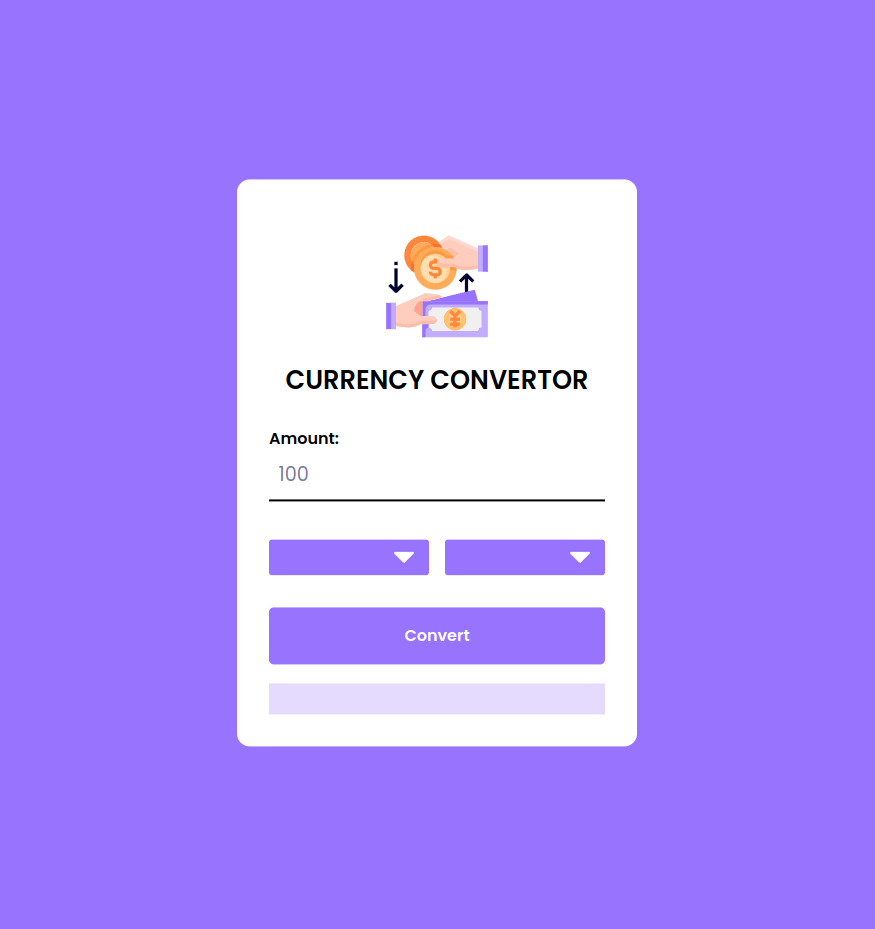
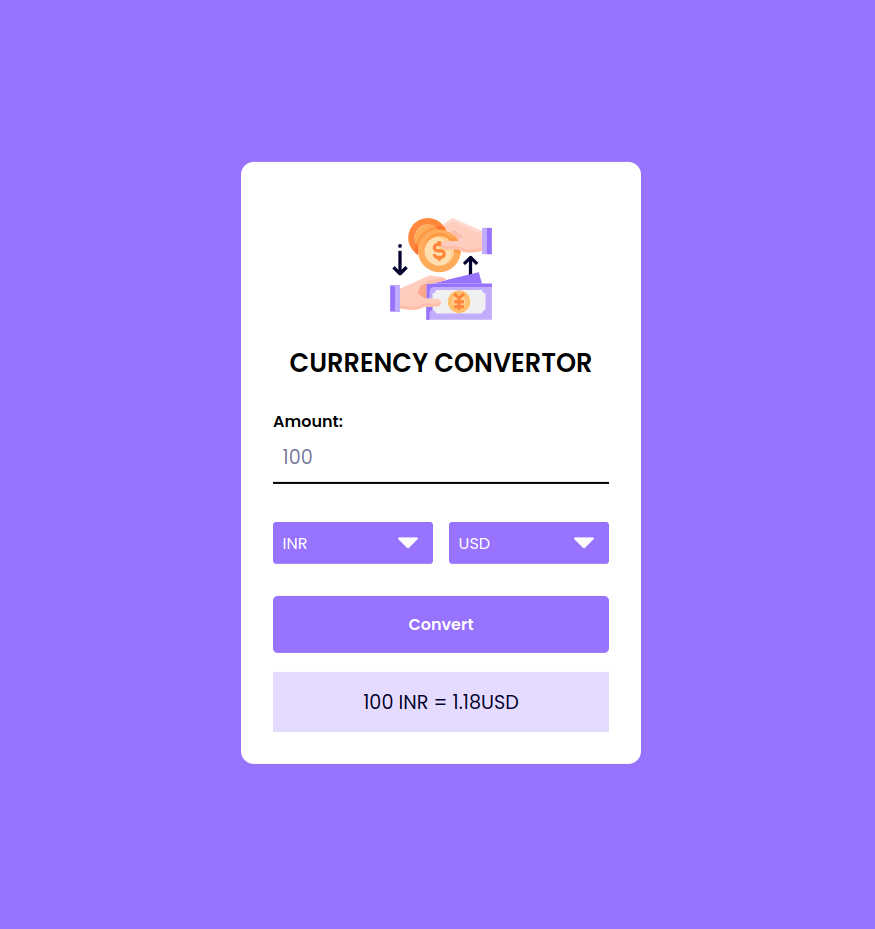
made backend part

Changed region(s): [[0.2469, 0.1561, 0.7406, 0.8428]]

diff --git a/currency-codes.js b/currency-codes.js
@@ -1,0 +1,173 @@
+currencies = [
+    "AED",
+    "AFN",
+    "ALL",
+    "AMD",
+    "ANG",
+    "AOA",
+    "ARS",
+    "AUD",
+    "AWG",
+    "AZN",
+    "BAM",
+    "BBD",
+    "BDT",
+    "BGN",
+    "BHD",
+    "BIF",
+    "BMD",
+    "BND",
+    "BOB",
+    "BRL",
+    "BSD",
+    "BTC",
+    "BTN",
+    "BWP",
+    "BYN",
+    "BZD",
+    "CAD",
+    "CDF",
+    "CHF",
+    "CLF",
+    "CLP",
+    "CNY",
+    "COP",
+    "CRC",
+    "CUC",
+    "CUP",
+    "CVE",
+    "CZK",
+    "DJF",
+    "DKK",
+    "DOP",
+    "DZD",
+    "EGP",
+    "ERN",
+    "ETB",
+    "EUR",
+    "FJD",
+    "FKP",
+    "GBP",
+    "GEL",
+    "GGP",
+    "GHS",
+    "GIP",
+    "GMD",
+    "GNF",
+    "GTQ",
+    "GYD",
+    "HKD",
+    "HNL",
+    "HRK",
+    "HTG",
+    "HUF",
+    "IDR",
+    "ILS",
+    "IMP",
+    "INR",
+    "IQD",
+    "IRR",
+    "ISK",
+    "JEP",
+    "JMD",
+    "JOD",
+    "JPY",
+    "KES",
+    "KGS",
+    "KHR",
+    "KMF",
+    "KPW",
+    "KRW",
+    "KWD",
+    "KYD",
+    "KZT",
+    "LAK",
+    "LBP",
+    "LKR",
+    "LRD",
+    "LSL",
+    "LYD",
+    "MAD",
+    "MDL",
+    "MGA",
+    "MKD",
+    "MMK",
+    "MNT",
+    "MOP",
+    "MRO",
+    "MRU",
+    "MUR",
+    "MVR",
+    "MWK",
+    "MXN",
+    "MYR",
+    "MZN",
+    "NAD",
+    "NGN",
+    "NIO",
+    "NOK",
+    "NPR",
+    "NZD",
+    "OMR",
+    "PAB",
+    "PEN",
+    "PGK",
+    "PHP",
+    "PKR",
+    "PLN",
+    "PYG",
+    "QAR",
+    "RON",
+    "RSD",
+    "RUB",
+    "RWF",
+    "SAR",
+    "SBD",
+    "SCR",
+    "SDG",
+    "SEK",
+    "SGD",
+    "SHP",
+    "SLL",
+    "SOS",
+    "SRD",
+    "SSP",
+    "STD",
+    "STN",
+    "SVC",
+    "SYP",
+    "SZL",
+    "THB",
+    "TJS",
+    "TMT",
+    "TND",
+    "TOP",
+    "TRY",
+    "TTD",
+    "TWD",
+    "TZS",
+    "UAH",
+    "UGX",
+    "USD",
+    "UYU",
+    "UZS",
+    "VEF",
+    "VES",
+    "VND",
+    "VUV",
+    "WST",
+    "XAF",
+    "XAG",
+    "XAU",
+    "XCD",
+    "XDR",
+    "XOF",
+    "XPD",
+    "XPF",
+    "XPT",
+    "YER",
+    "ZAR",
+    "ZMW",
+    "ZWL",
+  ];
+  

diff --git a/index.html b/index.html
@@ -1,29 +1,33 @@
 <!DOCTYPE html>
 <html lang="en">
-<head>
-    <meta charset="UTF-8">
-    <meta name="viewport" content="width=device-width, initial-scale=1.0">
+  <head>
+    <meta charset="UTF-8" />
+    <meta name="viewport" content="width=device-width, initial-scale=1.0" />
     <title>Document</title>
-    <link rel="stylesheet" href="style.css">
+    <link rel="stylesheet" href="style.css" />
     <link
-    href="https://fonts.googleapis.com/css2?family=Poppins:wght@400;600&display=swap"
-    rel="stylesheet"
-  />
-</head>
-<body>
+      href="https://fonts.googleapis.com/css2?family=Poppins:wght@400;600&display=swap"
+      rel="stylesheet"
+    />
+  </head>
+  <body>
     <div class="wrapper">
-        <div class="app-details">
-            <img class="appicon" src="app-icon.svg">
-            <h2 class="heading">Currency Convertor</h2>
-        </div>
-        <label for="amount">Amount: </label>
-        <input type="number" id="amount" value="100">
-        <div class="dropdowns">
-            <select name="" id=""></select>
-            <select name="" id=""></select>
-        </div>
-        <button id="convert">Convert</button>
-        <p id="output"></p>
+      <div class="app-details">
+        <img class="appicon" src="app-icon.svg" />
+        <h2 class="heading">Currency Convertor</h2>
+      </div>
+      <label for="amount">Amount: </label>
+      <input type="number" id="amount" value="100" />
+      <div class="dropdowns">
+        <select id="from-currency-select"></select>
+        <select id="to-currency-select"></select>
+      </div>
+      <button id="convert">Convert</button>
+      <p id="output"></p>
     </div>
-</body>
+
+    <script src="api-key.js"></script>
+    <script src="currency-codes.js"></script>
+    <script src="script.js"></script>
+  </body>
 </html>

diff --git a/script.js b/script.js
@@ -1,0 +1,46 @@
+const fromDropDown = document.querySelector("#from-currency-select");
+const toDropDown = document.querySelector("#to-currency-select");
+let api = `https://v6.exchangerate-api.com/v6/${apiKey}/latest/USD`;
+
+
+currencies.forEach((currency)=>{
+    const option = document.createElement("option");
+    option.value = currency;
+    option.text = currency;
+    fromDropDown.add(option);
+});
+
+currencies.forEach((currency)=>{
+    const option = document.createElement("option");
+    option.value = currency;
+    option.text = currency;
+    toDropDown.add(option);
+});
+
+
+fromDropDown.value = "INR";
+toDropDown.value = "USD";
+
+let convertCurrency = () => {
+    const amount = document.querySelector("#amount").value;
+    const fromCurrency = fromDropDown.value;
+    const toCurrency = toDropDown.value;
+
+    if(amount.length != 0){
+        fetch(api).then((resp) => resp.json())
+        .then((data)=>{
+            let fromExchangeRate = data.conversion_rates[fromCurrency];
+            let toExchangeRate = data.conversion_rates[toCurrency];
+            console.log(data);
+            const convertedAmount = (amount/fromExchangeRate) * toExchangeRate;
+
+            output.innerHTML = `${amount}  ${fromCurrency} = ${convertedAmount.toFixed(2)}${toCurrency}`;
+        });
+    } else{
+        alert("Please fill in the amount");
+    }
+};
+
+
+document.querySelector("#convert").addEventListener("click",convertCurrency);
+window.addEventListener("load",convertCurrency);

diff --git a/api-key.js b/api-key.js
@@ -1,0 +1,1 @@
+let apiKey = "ffe3d2a0e8c766535af645de";
